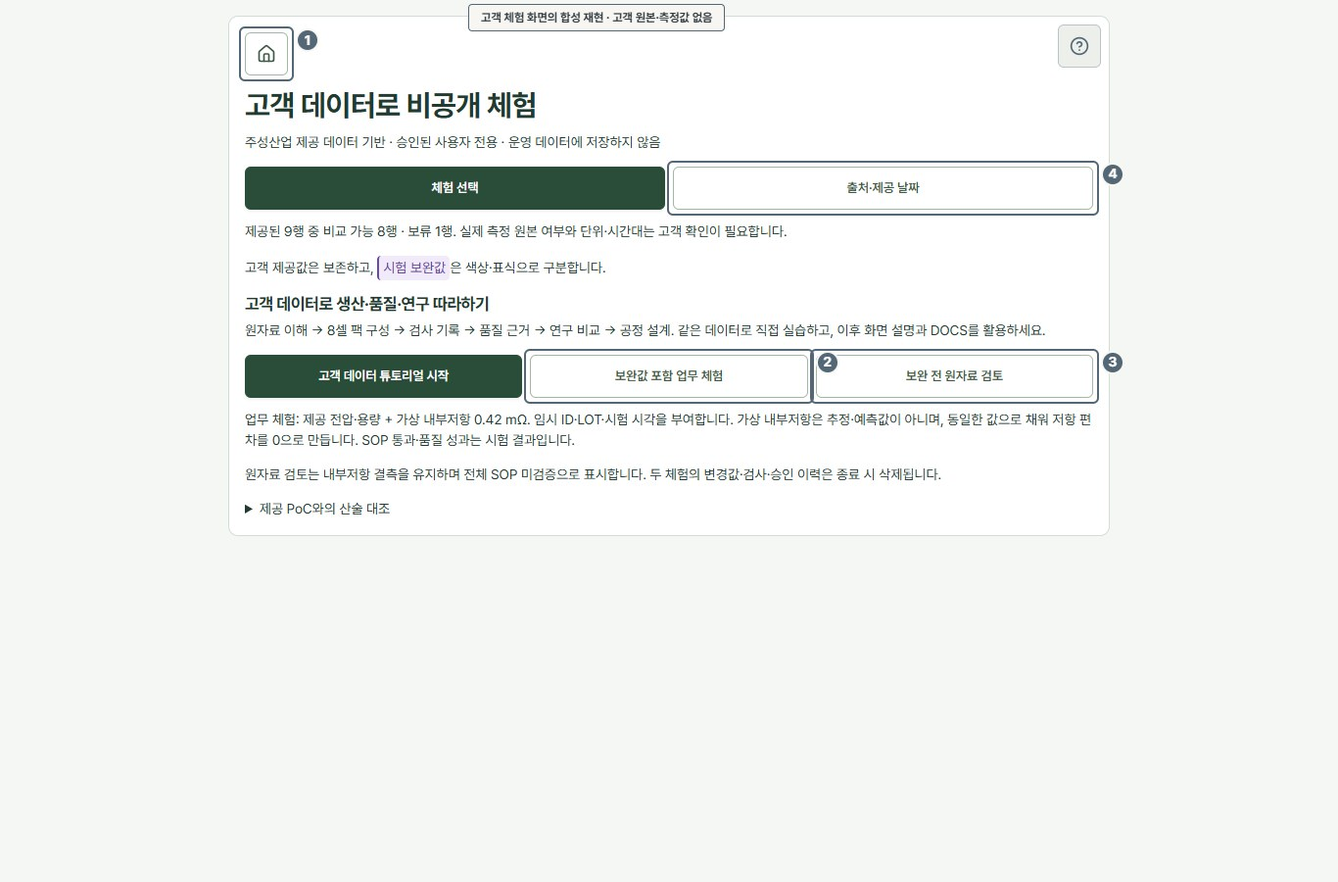
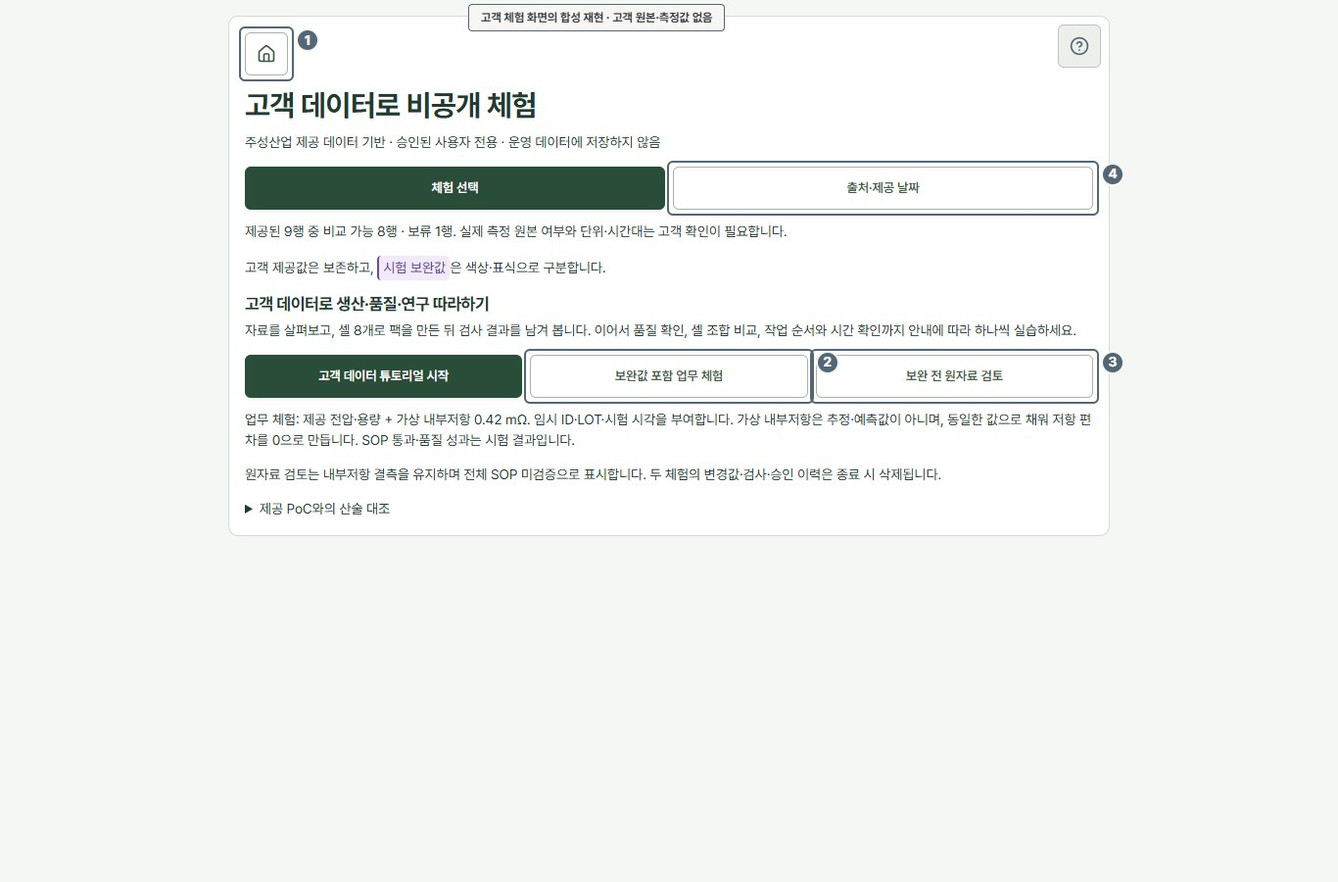
Simplify tutorial guidance and document its start and exit flow

Changed region(s): [[0.1845, 0.3422, 0.7994, 0.4044]]

diff --git a/src/manual/content.ts b/src/manual/content.ts
@@ -14,6 +14,18 @@ export const scenarios:ManualScenario[]=[
  {id:'twin',title:'공정 설계와 효율 시뮬레이션',role:'공정 설계·연구 담당자',start:'장비와 작업 순서·확보 데이터를 설계하고 작업 효율을 비교합니다.',steps:[{title:'장비와 작업 순서',body:'장비를 추가하거나 선택해 이름·운영 단계를 편집합니다. 작업 순서에서 위·아래로 조정한 뒤 장비 편집으로 돌아옵니다. 삭제는 선택 장비의 이 장비 삭제를 사용합니다.',target:'.designer-equipment-tabs, .designer-route'},{title:'데이터 확보 계획',body:'장비의 확보 데이터에서 수집 항목을 선택합니다. 왼쪽 데이터 확보 현황에서 계획된 항목과 부족 항목을 함께 확인합니다.',target:'.designer-coverage, .designer-data'},{title:'효율 추정',body:'작업 제목 줄의 시뮬레이션 · 작업 효율을 선택해 목표 수량, 처리시간, 작업자 시간, 동시 처리 수, 병렬 장비 수를 입력합니다.',target:'.designer-inputs, .designer-metrics'},{title:'대안 비교',body:'현재 안을 비교 기준으로 고정한 뒤 조건을 변경해 전체 완료시간을 비교합니다.',target:'.designer-timeline, .designer-metrics'},{title:'저장과 승인',body:'저장·승인에서 개인 설계를 저장하거나 JSON으로 보관합니다. 제목 줄의 공정 승인함으로 제출 상태를 확인합니다. 승인 요청 후 독립 승인자가 검토하면 신규 팩의 생산·품질 기준에 반영됩니다.',target:'.designer-inspector:has(form)',priority:1}],criteria:'입력 조건 기반 추정입니다. 장비별 인력이 충분하다고 가정하며 고장·재검사·매칭 탈락은 계산하지 않습니다. 확보 계획은 실제 데이터나 수명·안전성 검증 결과가 아닙니다.',exception:'운영 반영은 기존 6단계 순서가 모두 포함되어야 합니다. 시간·데이터 근거를 검토하고 변경한 설계는 재승인받습니다.',done:'승인한 공정 버전을 생산·품질에서 확인합니다. 기존 팩은 생성 당시 버전을 유지합니다.'},
  {id:'research',title:'현장 조합 연구와 데이터 준비',role:'분석·검증 담당자',start:'현장 판단 학습·8셀 조합과 수명·안전성 연구 준비 중 목적을 정합니다.',steps:[{title:'목적에 맞는 도구 선택',body:'현장 판단 학습·8셀 조합에서는 고객 측정·판정 자료로 조합을 비교합니다. 수명·안전성 연구 준비에서는 문헌·데이터셋·스키마를 등록하고 고객 CSV의 추가 확보 항목을 확인합니다.',target:'.research-lab > .task-group-tabs, .research-lab > .visible-task-tabs'},{title:'출처·조건 확인',body:'왼쪽은 분석·의사결정 근거, 오른쪽은 자료·조건 설정입니다. 자료가 없으면 분석 안내를 보여줍니다. 자료를 선택한 뒤 분포·결측을 보고 셀을 눌러 출처와 판단 근거를 확인하세요. 좁은 화면은 분석 근거와 입력·선택 상세로 전환합니다.',target:'.field-study-analysis, .field-study-controls'},{title:'실행 결과 해석·보관',body:'비교 조건에서 연결된 팩 검사와 부족 항목을 확인하고 실행합니다. 검증 결과에서 후보 편차·구성 8셀을 보고, 전체 알고리즘 비교를 펼쳐 방법별 결과를 비교하세요. 보고서를 내려받거나 최근 실험에서 다시 열 수 있습니다.',target:'.research-results, .research-body, .data-validation, .pretrained-explorer'},{title:'수명·안전성 정보 구분',body:'UConn은 셀의 현재 용량, Severson은 수명 종료까지의 총 사이클 수를 다룬 수명 연구입니다. 앱의 공개 모델·열화 이력은 참고용입니다. 조합한 팩의 수명·안전성 검증 결과가 아닙니다.',target:'.pretrained-explorer, .severson-explorer'}],criteria:'현재는 고정 알고리즘 비교이며 학습 모델은 미구현입니다. 팩 검사 결과를 셀 판정으로 간주하지 않습니다. 스키마 충족은 예측 성능 인증이 아니며 연구 결과는 운영에 자동 반영되지 않습니다.',exception:'자료나 조건이 부족하면 미검증으로 남깁니다. 외부 링크가 열리지 않으면 화면의 보관된 근거 요약을 확인합니다.',done:'재현 가능한 비교 근거와 현장 적용 전 추가 검증 항목을 확보합니다.'},
  {id:'members',title:'가입 승인·공정 배정·승인권',role:'시스템 관리자',start:'직원의 신원과 수행할 업무를 확인합니다.',steps:[{title:'가입 상태 확인',body:'가입 신청자의 계정을 확인해 승인·반려합니다. 조회자와 업무 구성원의 역할을 구분합니다.',target:'.table-wrap'},{title:'담당 공정 배정',body:'셀 등록·매칭·케이싱, 모듈 검사·기존 에이징, 최종검사 중 실제 담당 공정을 지정합니다.',target:'.member-permission-fields fieldset, .member-permissions summary'},{title:'최종 승인권 별도 할당',body:'품질 승인 업무를 맡은 사람에게 별도로 승인권을 부여합니다. 관리자라는 이유로 최종 품질 승인을 수행하지 않습니다.',target:'.member-permission-fields > button, .member-permissions summary'}],criteria:'가입 승인과 업무 권한 설정을 각각 확인합니다. 독립 승인 원칙은 권한 할당 후에도 적용됩니다.',exception:'공개 체험에서는 실제 사용자 권한을 바꾸지 않습니다. 이동·퇴사 시 담당 공정과 이용 상태를 점검합니다.',done:'직원이 필요한 업무만 수행할 수 있도록 역할·공정·승인권이 설정됩니다.'},
- {id:'sample',title:'샘플·고객 제공 데이터 체험',role:'체험 사용자·승인된 고객 자료 사용자',start:'공개 가상 체험과 로그인 후 고객 데이터 체험을 구분합니다. 공개 체험은 생산 작업에서 시작하며, 파일 등록 또는 예시 셀 선택 후 검사·품질 승인까지 연습합니다.',steps:[{title:'전체 컬럼과 값 조회',body:'로그인 후 고객 데이터 체험에 들어가 샘플 데이터의 전체 항목을 엽니다. 원자료를 선택하면 원래 컬럼명과 모든 값을 조회할 수 있습니다. 충방전 기록과 PoC 2~4번째 탭을 제공하며 첫 품질 기준 설명 탭은 제외합니다. 가로 스크롤과 이전·다음 자료로 이동합니다.',target:'.source-tables',priority:10},{title:'원본과 보완값 구분',body:'공개 체험의 셀은 기능 시연용 가상값입니다. 로그인 후 고객 데이터 체험에서는 원자료와 시험 보완값 표시를 비교합니다. 보완 내부저항은 실측이 아닙니다.',target:'.sample-value-grid, .sample-data-body, .private-demo-entry'},{title:'출처·날짜 확인',body:'파일 출처와 메타정보 날짜를 확인합니다. 파일 생성·수정일을 실제 제공일로 단정하지 않습니다.',target:'.sample-main-tabs > button:last-child, .sample-field-tabs > button:last-child, .private-demo-entry'},{title:'업무로 돌아가기',body:'샘플 조회의 업무로 돌아가기는 체험 작업으로 복귀합니다. 체험 종료 후 선택 화면의 제목 위 홈 아이콘을 누르면 운영 화면으로 돌아갑니다.',target:'.sample-data-view .console-task-heading > button, .private-demo-home'}],criteria:'원자료 모드는 결측을 유지합니다. 보완값을 사용한 업무 체험 결과를 원본 SOP 전체 통과로 표현하지 않습니다.',exception:'고객 자료 접근 권한이 없으면 관리자에게 문의합니다. 실제 원본·비밀번호를 공개 저장소나 공개 체험에 넣지 않습니다.',done:'데이터 출처와 보완 범위를 이해한 상태로 연습하거나 근거를 검토합니다.'}
+ {id:'sample',title:'샘플·고객 제공 데이터 체험',role:'체험 사용자·승인된 고객 자료 사용자',start:'공개 가상 체험과 로그인 후 고객 데이터 체험을 구분합니다. 공개 체험은 생산 작업에서 시작하며, 파일 등록 또는 예시 셀 선택 후 검사·품질 승인까지 연습합니다.',steps:[{title:'전체 컬럼과 값 조회',body:'로그인 후 고객 데이터 체험에 들어가 샘플 데이터의 전체 항목을 엽니다. 원자료를 선택하면 원래 컬럼명과 모든 값을 조회할 수 있습니다. 충방전 기록과 PoC 2~4번째 탭을 제공하며 첫 품질 기준 설명 탭은 제외합니다. 가로 스크롤과 이전·다음 자료로 이동합니다.',target:'.source-tables',priority:10},{title:'원본과 보완값 구분',body:'공개 체험의 셀은 기능 시연용 가상값입니다. 로그인 후 고객 데이터 체험에서는 원자료와 시험 보완값 표시를 비교합니다. 보완 내부저항은 실측이 아닙니다.',target:'.sample-value-grid, .sample-data-body, .private-demo-entry'},{title:'출처·날짜 확인',body:'파일 출처와 메타정보 날짜를 확인합니다. 파일 생성·수정일을 실제 제공일로 단정하지 않습니다.',target:'.sample-main-tabs > button:last-child, .sample-field-tabs > button:last-child, .private-demo-entry'},{title:'업무로 돌아가기',body:'샘플 조회의 업무로 돌아가기는 체험 작업으로 복귀합니다. 체험 종료 후 선택 화면의 제목 위 홈 아이콘을 누르면 운영 화면으로 돌아갑니다.',target:'.sample-data-view .console-task-heading > button, .private-demo-home'}],criteria:'원자료 모드는 결측을 유지합니다. 보완값을 사용한 업무 체험 결과를 원본 SOP 전체 통과로 표현하지 않습니다.',exception:'고객 자료 접근 권한이 없으면 관리자에게 문의합니다. 실제 원본·비밀번호를 공개 저장소나 공개 체험에 넣지 않습니다.',done:'데이터 출처와 보완 범위를 이해한 상태로 연습하거나 근거를 검토합니다.'},
+ {
+  id:'tutorial',title:'튜토리얼 시작·진행·종료',role:'고객 데이터 접근 권한이 있는 승인된 사용자',
+  start:'태블릿이나 PC에서 승인된 계정으로 로그인합니다. 화면 폭 768px 미만에서는 모바일 미지원 안내가 표시됩니다. 로그인 화면의 가상 데이터 체험과 고객 데이터 튜토리얼은 서로 다른 메뉴입니다.',
+  steps:[
+   {title:'튜토리얼 시작',body:'화면 아래의 ‘고객 데이터 체험’을 누르고 ‘고객 데이터 튜토리얼 시작’을 선택합니다. 고객 데이터 체험 중에는 생산·품질·연구 옆의 ‘튜토리얼 모드’로도 시작할 수 있습니다. 생산의 자료 확인 단계부터 시작합니다.',target:'.tutorial-mode-button, .private-demo-entry'},
+   {title:'안내에 따라 진행',body:'자료 확인 → 팩 만들기 → 검사 기록 → 품질 확인 → 셀 조합 비교 → 작업 순서와 시간 확인 순서입니다. 안내에 적힌 작업을 수행한 뒤 ‘다음 실습’을 누릅니다. ‘실습 화면으로’는 현재 단계의 작업 화면을 다시 엽니다.',target:'.customer-tutorial'},
+   {title:'마무리와 종료 구분',body:'마지막 단계의 ‘실습 마무리’는 결과 안내를 엽니다. ‘자유 체험으로 이어가기’는 안내만 끝내고 팩·검사 기록을 유지합니다. 체험 자체를 끝내려면 화면 아래 ‘체험 종료’를 누릅니다. 실습 중 바꾼 내용과 만든 결과는 삭제되고 고객 데이터 체험 선택 화면으로 돌아갑니다.',target:'.tutorial-actions, .console-footer'}
+  ],
+  criteria:'자료 확인·품질 확인·작업 순서 확인 단계에서는 화면을 살펴본 뒤 확인란에 체크합니다. 팩 만들기는 팩 1개 이상, 검사 기록은 1건 이상 저장, 셀 조합 비교는 비교 실행이 필요합니다. 기존 체험 결과가 있으면 해당 조건이 이미 충족될 수 있습니다. 다음 단계로 갈 수 있다는 표시는 실제 공정 완료나 품질 승인을 뜻하지 않습니다.',
+  exception:'‘튜토리얼 접기’는 안내를 접을 뿐 종료하지 않습니다. 상단 ‘튜토리얼 모드’를 다시 누르거나 마무리 화면의 ‘처음부터 다시 살펴보기’를 선택하면 안내가 첫 단계로 돌아갑니다. 같은 업무 체험의 팩·검사 기록은 유지됩니다. 보완 전 원자료 검토에서 튜토리얼을 시작하면 실습용 보완값이 포함된 새 체험으로 전환됩니다.',
+  done:'실습을 마친 뒤 각 작업의 ‘사용 안내’와 DOCS에서 자세한 절차를 확인할 수 있습니다. ‘체험 종료’ 후 선택 화면의 제목 위 홈 아이콘을 누르면 실제 운영 화면으로 돌아갑니다. 고객 원본과 실제 운영 기록은 실습으로 변경되지 않습니다.'
+ }
 ];
 export function scenarioById(id:string){return scenarios.find(s=>s.id===id)||scenarios[0];}

diff --git a/src/CustomerTutorial.tsx b/src/CustomerTutorial.tsx
@@ -4,12 +4,12 @@ import type {PrivateDataset} from './demoData';
 import './customer-tutorial.css';
 
 const steps: {title:string;task:Tab;action:string;check:string;doc:string;automatic?:'pack'|'inspection'|'research'}[] = [
- {title:'고객 자료 이해',task:'cells',action:'고객 자료 검토에서 원행·보류 사유를 살펴보고, 샘플 데이터에서 제공값과 시험 보완값을 비교하세요.',check:'전압·용량은 고객 제공값입니다. 내부저항 0.42 mΩ, ID·LOT·시험 시각은 보완값이며 원본의 결측을 대체한 실측값이 아닙니다.',doc:'sample'},
- {title:'생산 · 8셀 팩 구성',task:'matching',action:'조합 추천을 실행하고 후보의 8셀과 편차를 검토하세요. 조합 검토 사유와 팩 일련번호를 입력해 팩 1개를 구성하세요.',check:'전압차 10 mV·용량차 500 mAh 조건 충족과 검사 합격은 별개입니다. 후보가 없으면 셀 재고의 보류 상태와 추천 조건을 확인하세요.',doc:'matching',automatic:'pack'},
- {title:'생산 · 검사 기록',task:'packs',action:'구성한 팩의 검사 기록에서 모듈 검사 → 케이싱 → 최종검사 순으로 시험 결과와 사유를 기록하세요. 불합격이면 조치 후 재검사 이력을 남겨보세요.',check:'최소 1건의 시험 검사 기록이 있으면 다음 실습으로 이동할 수 있습니다. 이는 전체 공정 완료나 품질 승인을 뜻하지 않습니다.',doc:'inspection',automatic:'inspection'},
- {title:'품질 · 근거 추적',task:'quality',action:'품질 리포트에서 시험 자료 범위와 검사 연결을 확인하세요. 품질·공정 승인함에서는 승인에 필요한 검사와 독립 검토 조건을 살펴보세요.',check:'초도·최신 결과와 검사 건수·팩 수를 구분하세요. 실습 중 만든 결과를 고객의 실제 불량률이나 개선 성과로 해석하지 않습니다.',doc:'quality'},
- {title:'연구 · 같은 데이터로 비교',task:'research',action:'현재 측정·판정 자료 가져오기를 누르세요. 시험 보완값 포함 여부를 확인한 뒤 비교 조건에서 실행하고, 검증 결과의 8셀 후보와 편차를 살펴보세요.',check:'생산에서 만든 팩과 검사도 함께 가져옵니다. 고정 알고리즘 비교이며 모델 학습·수명·안전성 예측이 아닙니다. 8개 이상 비교 가능한 셀이 필요합니다.',doc:'research',automatic:'research'},
- {title:'연구 · 공정과 추가 데이터',task:'twin',action:'공정 설계에서 장비별 확보 데이터와 작업 순서를 살펴보세요. 시뮬레이션에서 목표 수량·작업시간을 바꿔 완료시간과 병목을 비교하세요.',check:'시뮬레이션 시간은 입력 조건에 따른 추정입니다. 데이터·AI 검증의 연구 문헌에서 수명·안전성 연구에 추가로 필요한 측정 항목도 확인하세요.',doc:'twin'},
+ {title:'고객 자료 살펴보기',task:'cells',action:'‘고객 자료 검토’에서 원본 자료와 사용할 수 없는 셀의 이유를 확인하세요. ‘샘플 데이터’를 열어 고객이 제공한 값과 실습용으로 채운 값을 구분해 보세요.',check:'전압과 용량은 고객이 제공한 값입니다. 내부저항 0.42 mΩ와 셀 번호(ID)·묶음 번호(LOT)·시험 시각은 실습용으로 넣었습니다. 원본에 없던 값을 실제로 측정한 것은 아닙니다.',doc:'sample'},
+ {title:'생산 · 셀 8개로 팩 만들기',task:'matching',action:'‘조합 추천’을 누르고, 추천된 셀 8개의 측정값 차이를 살펴보세요. ‘조합 검토 · 확정’에서 선택한 이유와 팩 일련번호를 입력해 팩 1개를 만드세요.',check:'전압 차이 10 mV, 용량 차이 500 mAh 조건을 만족해도 검사에 합격한 것은 아닙니다. 추천 결과가 없으면 ‘셀 재고’에서 사용이 보류된 셀과 그 이유를 확인하고, 추천 조건도 살펴보세요.',doc:'matching',automatic:'pack'},
+ {title:'생산 · 검사 결과 남기기',task:'packs',action:'만든 팩의 ‘상세 조회’를 열어 검사 결과와 이유를 입력하세요. 모듈 검사 → 케이싱 → 최종검사 순서로 진행합니다. 불합격인 경우에는 조치 내용을 적고 다시 검사해 보세요.',check:'검사 결과를 1건 이상 저장하면 다음 실습으로 갈 수 있습니다. 아직 모든 공정을 마쳤거나 품질 승인을 받은 것은 아닙니다.',doc:'inspection',automatic:'inspection'},
+ {title:'품질 · 검사 결과 확인하기',task:'quality',action:'‘품질 리포트’에서 어떤 검사 결과가 집계됐는지 확인하세요. 이어서 ‘품질·공정 승인함’에서 승인에 필요한 검사와 검토 조건을 살펴보세요.',check:'처음 검사한 결과와 가장 최근 결과를 구분해 보세요. 같은 팩을 여러 번 검사할 수 있으므로 검사 건수와 팩 수는 다를 수 있습니다. 직접 제출하거나 공정 확인에 참여한 팩은 다른 승인 담당자가 검토해야 합니다. 실습 결과는 고객의 실제 불량률이나 개선 성과가 아닙니다.',doc:'quality'},
+ {title:'연구 · 셀 조합 비교하기',task:'research',action:'‘현재 측정·판정 자료 가져오기’를 누르세요. ‘2. 비교 조건’에서 실습용 값도 포함할지 확인한 뒤 ‘알고리즘 비교 실행’을 누르세요. 결과에서 추천된 셀 8개와 측정값 차이를 비교해 보세요.',check:'생산 실습에서 만든 팩과 검사 기록도 함께 가져옵니다. 비교에 사용할 수 있는 셀이 8개 이상 있어야 합니다. 정해진 계산 방법을 비교하는 실습이며, AI를 학습시키거나 배터리 수명·안전성을 예측하는 기능은 아닙니다.',doc:'research',automatic:'research'},
+ {title:'연구 · 작업 순서와 시간 살펴보기',task:'twin',action:'‘공정 설계’에서 장비별로 모을 데이터와 작업 순서를 살펴보세요. ‘시뮬레이션’에서 목표 수량과 작업시간을 바꿔 보세요. 전체 소요 시간과 작업이 오래 걸리는 곳이 어떻게 달라지는지 확인하세요.',check:'표시된 시간은 입력한 조건으로 계산한 예상 시간입니다. 실제 장비에서 측정한 시간은 아닙니다. ‘데이터·AI 검증’의 연구 문헌에서는 수명·안전성 연구를 위해 어떤 데이터를 더 측정해야 하는지도 살펴볼 수 있습니다.',doc:'twin'},
 ];
 
 export default function CustomerTutorial({dataset,packCount,inspectionCount,researchDone,onOpen,onFinish}:{
@@ -21,10 +21,10 @@ export default function CustomerTutorial({dataset,packCount,inspectionCount,rese
  function next(){if(!ready)return;setIndex(index+1);if(index+1<steps.length)onOpen(steps[index+1].task);}
  return <section className="customer-tutorial" aria-label="고객 데이터 튜토리얼">
   <div className="tutorial-heading"><strong>{finished?'튜토리얼 마무리':`${index+1} / ${steps.length} · ${step.title}`}</strong><button className="text-button" aria-expanded={!collapsed} onClick={()=>setCollapsed(!collapsed)}>{collapsed?'튜토리얼 펼치기':'튜토리얼 접기'}</button></div>
-  {!collapsed&&(finished?<div><h2>고객 자료에서 생산·품질·연구까지</h2><p>자료 {dataset.intake.rows.length}행으로 시작해 현재 팩 {packCount}개 · 검사 {inspectionCount}건 · 연구 비교 {researchDone?'실행 완료':'미실행'}를 확인했습니다. 체험 결과는 운영에 반영되지 않으며 종료 시 삭제됩니다.</p><p>이제 각 작업의 ‘사용 안내’로 화면 설명을 확인하고, DOCS에서 절차와 예외를 찾아보세요.</p><div className="tutorial-actions"><a href="#docs/field">생산 DOCS</a><a href="#docs/quality">품질 DOCS</a><a href="#docs/research">연구 DOCS</a><button className="secondary" onClick={()=>{setIndex(0);onOpen('cells');}}>처음부터 다시 살펴보기</button><button className="primary" onClick={onFinish}>자유 체험으로 이어가기</button></div></div>:<div>
-   <p>{step.action}</p><details><summary>판단할 때 확인할 점</summary><p>{step.check}</p><p>시작 자료 {dataset.intake.rows.length}행 · 비교 가능 {dataset.verification.valid}행 · 보류 {dataset.verification.held}행. 모든 실습 변경은 현재 체험에서만 유지됩니다.</p></details>
-   {step.automatic?<p role="status">{ready?'실행 확인 완료':step.automatic==='pack'?'팩 구성 대기':step.automatic==='inspection'?'시험 검사 기록 대기':'연구 비교 실행 대기'}</p>:<label><input type="checkbox" checked={confirmed.includes(index)} onChange={e=>setConfirmed(e.target.checked?[...confirmed,index]:confirmed.filter(i=>i!==index))}/> 직접 살펴보고 판단 근거를 확인했습니다</label>}
-   <div className="tutorial-actions"><button className="secondary" disabled={!index} onClick={()=>{setIndex(index-1);onOpen(steps[index-1].task);}}>이전 실습</button><button className="secondary" onClick={()=>onOpen(step.task)}>실습 화면으로</button><button className="primary" disabled={!ready} onClick={next}>{index===steps.length-1?'실습 마무리':'다음 실습'}</button><a href={`#docs/${step.doc}`}>관련 DOCS</a></div>
+  {!collapsed&&(finished?<div><h2>생산·품질·연구 실습을 마쳤습니다</h2><p>자료 {dataset.intake.rows.length}행으로 실습했습니다. 현재 팩 {packCount}개 · 검사 {inspectionCount}건 · 연구 비교 {researchDone?'실행 완료':'미실행'} 상태입니다. 실습 결과는 실제 운영에 저장되지 않으며 체험을 종료하면 삭제됩니다.</p><p>화면의 버튼이나 입력 방법이 궁금하면 ‘사용 안내’를 여세요. 자세한 순서와 문제 해결 방법은 DOCS(전체 매뉴얼)에서 볼 수 있습니다.</p><div className="tutorial-actions"><a href="#docs/field">생산 DOCS</a><a href="#docs/quality">품질 DOCS</a><a href="#docs/research">연구 DOCS</a><button className="secondary" onClick={()=>{setIndex(0);onOpen('cells');}}>처음부터 다시 살펴보기</button><button className="primary" onClick={onFinish}>자유 체험으로 이어가기</button></div></div>:<div>
+   <p>{step.action}</p><details><summary>이 단계에서 알아둘 점</summary><p>{step.check}</p><p>전체 자료 {dataset.intake.rows.length}행 중 비교에 쓸 수 있는 자료는 {dataset.verification.valid}행이고, 확인이 더 필요한 자료는 {dataset.verification.held}행입니다. 실습 중 바꾼 내용은 실제 운영에 저장되지 않습니다.</p></details>
+   {step.automatic?<p role="status">{ready?'완료했습니다. ‘다음 실습’을 눌러 주세요.':step.automatic==='pack'?'팩 1개를 만들면 다음 실습으로 갈 수 있습니다.':step.automatic==='inspection'?'검사 결과를 1건 저장하면 다음 실습으로 갈 수 있습니다.':'알고리즘 비교를 실행하면 다음 실습으로 갈 수 있습니다.'}</p>:<label><input type="checkbox" checked={confirmed.includes(index)} onChange={e=>setConfirmed(e.target.checked?[...confirmed,index]:confirmed.filter(i=>i!==index))}/> 안내에 따라 화면을 살펴봤습니다</label>}
+   <div className="tutorial-actions"><button className="secondary" disabled={!index} onClick={()=>{setIndex(index-1);onOpen(steps[index-1].task);}}>이전 실습</button><button className="secondary" onClick={()=>onOpen(step.task)}>실습 화면으로</button><button className="primary" disabled={!ready} onClick={next}>{index===steps.length-1?'실습 마무리':'다음 실습'}</button><a href={`#docs/${step.doc}`}>자세한 설명 (DOCS)</a><a href="#docs/tutorial">튜토리얼 사용법</a></div>
   </div>)}
  </section>;
 }

diff --git a/tests/manual.spec.ts b/tests/manual.spec.ts
@@ -5,9 +5,9 @@ test('requested help preserves login input and DOCS shares scenarios, search and
  await page.goto('/batt/');await expect(page.getByRole('dialog')).toHaveCount(0);
  await page.getByLabel('이메일',{exact:true}).fill('draft@example.com');await page.getByRole('button',{name:'사용 안내',exact:true}).click();
  await expect(page.getByRole('dialog')).toContainText('화면 설명');await expect(page.locator('.manual-spotlight')).toBeVisible();
- await page.getByRole('button',{name:'DOCS 전체 매뉴얼'}).click();await expect(page.getByRole('navigation',{name:'업무 시나리오'}).getByRole('button')).toHaveCount(13);
+ await page.getByRole('button',{name:'DOCS 전체 매뉴얼'}).click();await expect(page.getByRole('navigation',{name:'업무 시나리오'}).getByRole('button')).toHaveCount(14);
  await page.getByRole('searchbox').fill('권한');await expect(page.getByRole('navigation',{name:'업무 시나리오'}).getByRole('button').first()).toBeVisible();
- await page.emulateMedia({media:'print'});await expect(page.locator('.manual-print .manual-article')).toHaveCount(13);await expect(page.locator('.manual-print')).toBeVisible();await expect(page.locator('#root')).toBeHidden();await page.emulateMedia({media:'screen'});
+ await page.emulateMedia({media:'print'});await expect(page.locator('.manual-print .manual-article')).toHaveCount(14);await expect(page.locator('.manual-print')).toBeVisible();await expect(page.locator('#root')).toBeHidden();await page.emulateMedia({media:'screen'});
  await page.getByRole('button',{name:'DOCS 닫기'}).click();await expect(page.getByLabel('이메일',{exact:true})).toHaveValue('draft@example.com');await expect(page.getByRole('button',{name:'사용 안내',exact:true})).toBeFocused();
 });
 test('help and docs fit small and large displays and return to the same work',async({page})=>{
@@ -37,7 +37,7 @@ test('help stays reachable when the twin header changes with viewport size',asyn
 });
 
 test('every scenario has readable numbered screenshots, outcomes and troubleshooting',async({page})=>{
- await page.goto('/batt/#docs/inspection');const nav=page.getByRole('navigation',{name:'업무 시나리오'});await expect(nav.getByRole('button')).toHaveCount(13);const names=await nav.getByRole('button').allTextContents();expect(names).toHaveLength(13);
+ await page.goto('/batt/#docs/inspection');const nav=page.getByRole('navigation',{name:'업무 시나리오'});await expect(nav.getByRole('button')).toHaveCount(14);const names=await nav.getByRole('button').allTextContents();expect(names).toHaveLength(14);
  for(const name of names){await nav.getByRole('button',{name,exact:true}).click();const article=page.locator('.manual-reading article');await expect(article.locator('h2')).toHaveText(name);expect(await article.locator('.manual-figure').count()).toBeGreaterThanOrEqual(2);await expect(article.locator('.manual-troubleshooting')).toBeVisible();await expect(article).toContainText('처리 후 확인');
   const images=article.locator('img');await images.evaluateAll(async nodes=>{await Promise.all(nodes.map(async node=>{const img=node as HTMLImageElement;img.loading='eager';await img.decode();if(img.naturalWidth!==Number(img.getAttribute('width'))||img.naturalHeight!==Number(img.getAttribute('height'))||img.naturalWidth<1000)throw Error('Broken manual capture');}));});
   expect(await article.locator('.manual-callouts li').count()).toBeGreaterThanOrEqual(2);

diff --git a/src/manual/guidance.ts b/src/manual/guidance.ts
@@ -1,4 +1,11 @@
 export const guidance:Record<string,{entry:string;problems:[string,string][]}>={
+ tutorial:{entry:'로그인 → 화면 아래 고객 데이터 체험 → 고객 데이터 튜토리얼 시작 / 고객 데이터 체험 중 상단 튜토리얼 모드',problems:[
+  ['튜토리얼 모드 버튼이 보이지 않음','일반 운영 화면이나 로그인 화면의 가상 데이터 체험에는 표시되지 않습니다. 승인된 계정으로 로그인한 뒤 ‘고객 데이터 체험’에 들어가세요. 자료를 열 수 없으면 관리자에게 접근 권한을 확인하세요.'],
+  ['다음 실습을 누를 수 없음','현재 안내 아래의 확인란 또는 완료 조건을 확인하세요. 팩 1개 만들기, 검사 결과 1건 저장, 알고리즘 비교 실행은 해당 작업을 마쳐야 다음 단계로 이동할 수 있습니다.'],
+  ['튜토리얼 모드 버튼이 비활성화됨','팩 검사 입력창이나 샘플 자료를 보고 있는지 확인하세요. 검사를 저장하거나 입력창을 닫고, 샘플 자료에서는 ‘업무로 돌아가기’를 누른 뒤 다시 선택하세요.'],
+  ['안내만 닫을지 체험을 끝낼지 모르겠음','잠깐 화면을 넓게 보려면 ‘튜토리얼 접기’를 누르세요. 마지막 단계에서 ‘자유 체험으로 이어가기’를 누르면 결과를 유지한 채 안내를 끝냅니다. ‘체험 종료’는 실습 결과를 삭제하고 체험 선택 화면으로 돌아갑니다.'],
+  ['새로 시작했더니 이전 실습 결과가 없음','체험 결과는 실제 운영에 저장되지 않습니다. 체험 종료·새로고침 후에는 이전 결과가 남지 않습니다. 안내만 처음부터 다시 보는 경우에는 같은 체험의 결과를 유지합니다.']
+ ]},
  access:{entry:'로그인 화면 · 사용 권한 신청',problems:[['가입 접수 후 로그인할 수 없음','이메일 인증 요청 여부와 관리자 승인 상태를 확인합니다. 가입 승인은 공정 배정이나 최종 승인권과 별개입니다.'],['로그인 실패','본인 이메일과 비밀번호를 확인합니다. 계정 승인·이용 중지 문제는 관리자에게 문의하고 다른 사람의 계정을 사용하지 않습니다.']]},
  cells:{entry:'생산 · 셀 검사·재고 · 파일 가져오기 / 고객 자료 검토 / 셀 재고',problems:[['표준 등록에서 오류 또는 결측 발견','오류 행·단위·중복 ID를 확인합니다. 원본이 결측이면 값을 만들어 넣지 말고 고객 자료 검토에서 결측을 유지해 검토합니다.'],['저장이 끝났는데 셀이 보이지 않음','셀 재고의 검색어·LOT·상태 필터를 확인합니다. 재등록 전에 같은 셀 ID의 존재 여부를 확인해 중복을 피합니다.']]},
  matching:{entry:'생산 · 8셀 조합 · 추천 조건 · 8셀 추천 조합',problems:[['추천이 없거나 조합 추천이 비활성','사용 가능한 셀 수가 8개 이상인지, LOT와 결측·보류 상태가 맞는지 확인합니다. 추천 없음은 전역 조합 불가능의 증명이 아닙니다.'],['확정 중 오류','중복 팩 번호, 변경된 셀 상태와 저장 오류를 확인합니다. 이미 구성됐는지 팩 목록을 조회한 뒤 재시도합니다.']]},

diff --git a/src/PrivateDemo.tsx b/src/PrivateDemo.tsx
@@ -23,7 +23,7 @@ export default function PrivateDemo({session,onExit}:{session:Session;onExit:()=
  {error?<p role="alert">{error}</p>:!dataset?<p role="status">비공개 자료 접근 권한을 확인하고 있습니다.</p>:tab==='start'?<>
  <p>제공된 {dataset.intake.rows.length}행 중 비교 가능 {dataset.verification.valid}행 · 보류 {dataset.verification.held}행. 실제 측정 원본 여부와 단위·시간대는 고객 확인이 필요합니다.</p>
  <p><span className="data-origin-provided">고객 제공값</span>은 보존하고, <span className="data-value data-origin-supplemented">시험 보완값</span>은 색상·표식으로 구분합니다.</p>
- <h2>고객 데이터로 생산·품질·연구 따라하기</h2><p>원자료 이해 → 8셀 팩 구성 → 검사 기록 → 품질 근거 → 연구 비교 → 공정 설계. 같은 데이터로 직접 실습하고, 이후 화면 설명과 DOCS를 활용하세요.</p><nav><button className="primary" onClick={()=>setMode('tutorial')}>고객 데이터 튜토리얼 시작</button><button className="secondary" onClick={()=>setMode('workflow')}>보완값 포함 업무 체험</button><button className="secondary" onClick={()=>setMode('raw')}>보완 전 원자료 검토</button></nav>
+ <h2>고객 데이터로 생산·품질·연구 따라하기</h2><p>자료를 살펴보고, 셀 8개로 팩을 만든 뒤 검사 결과를 남겨 봅니다. 이어서 품질 확인, 셀 조합 비교, 작업 순서와 시간 확인까지 안내에 따라 하나씩 실습하세요.</p><nav><button className="primary" onClick={()=>setMode('tutorial')}>고객 데이터 튜토리얼 시작</button><button className="secondary" onClick={()=>setMode('workflow')}>보완값 포함 업무 체험</button><button className="secondary" onClick={()=>setMode('raw')}>보완 전 원자료 검토</button></nav>
  <p>업무 체험: 제공 전압·용량 + 가상 내부저항 0.42 mΩ. 임시 ID·LOT·시험 시각을 부여합니다. 가상 내부저항은 추정·예측값이 아니며, 동일한 값으로 채워 저항 편차를 0으로 만듭니다. SOP 통과·품질 성과는 시험 결과입니다.</p>
  <p>원자료 검토는 내부저항 결측을 유지하며 전체 SOP 미검증으로 표시합니다. 두 체험의 변경값·검사·승인 이력은 종료 시 삭제됩니다.</p>
  <details><summary>제공 PoC와의 산술 대조</summary><p>평균 용량편차 {number(dataset.verification.sequence_mean,2)} → {number(dataset.verification.poc_mean,2)} mAh · {number(dataset.verification.improvement_percent,2)}% 감소. 기록된 조합 {dataset.verification.poc_two_criteria_pass}/15개가 전압·용량 두 조건을 충족합니다. 내부저항을 포함한 전체 SOP 통과는 아닙니다. K-means 실행 재현이나 현장 불량률 개선 검증도 아닙니다.</p></details>

diff --git a/tests/customer-tutorial.spec.ts b/tests/customer-tutorial.spec.ts
@@ -18,6 +18,11 @@ test('customer tutorial connects production quality and research without persist
  const guide=page.getByRole('region',{name:'고객 데이터 튜토리얼'});
  const next=guide.getByRole('button',{name:'다음 실습',exact:true});
  await expect(next).toBeDisabled();
+ await guide.getByRole('link',{name:'튜토리얼 사용법',exact:true}).click();
+ await expect(page.locator('.manual-reading h2')).toHaveText('튜토리얼 시작·진행·종료');
+ await expect(page.locator('.manual-reading')).toContainText('체험 종료');
+ await page.getByRole('button',{name:'DOCS 닫기'}).click();
+ await expect(guide).toContainText('1 / 6');await expect(next).toBeDisabled();
  for(const [width,height] of [[768,1024],[1024,768],[800,1280],[1280,800],[834,1194],[1194,834],[900,768],[1366,768],[1440,768]]){
   await page.setViewportSize({width,height});
   await expect(guide).toBeVisible();
@@ -54,6 +59,12 @@ test('customer tutorial connects production quality and research without persist
  expect(writes).toEqual([]);
  expect(await page.evaluate(()=>Object.values(localStorage).some(v=>v.includes('PRIVATE-0')))).toBe(false);
  await page.screenshot({path:'test-results/customer-tutorial-complete.png'});
+ await guide.getByRole('button',{name:'자유 체험으로 이어가기',exact:true}).click();
+ await expect(guide).toHaveCount(0);
+ await page.getByRole('button',{name:'튜토리얼 모드',exact:true}).click();
+ await expect(guide).toContainText('1 / 6');await expect(next).toBeDisabled();
+ await guide.getByRole('checkbox').check();await next.click();
+ await expect(next).toBeEnabled();
  await page.getByRole('button',{name:'체험 종료',exact:true}).click();await page.getByRole('button',{name:'고객 데이터 튜토리얼 시작'}).click();
  await expect(guide).toContainText('1 / 6');await expect(next).toBeDisabled();
 });

diff --git a/README.md b/README.md
@@ -2,6 +2,8 @@
 
 ## 고객 데이터 튜토리얼 (2026-10-20)
 
+DOCS의 **튜토리얼 시작·진행·종료**에서 진입 위치, 다음 단계로 넘어가는 조건, 안내 접기와 체험 종료의 차이를 확인할 수 있습니다. 튜토리얼 안내의 **튜토리얼 사용법** 링크로도 열 수 있습니다. 마지막의 **자유 체험으로 이어가기**는 실습 결과를 유지하고 안내만 끝내며, 화면 아래 **체험 종료**는 실습 결과를 삭제하고 체험 선택 화면으로 돌아갑니다.
+
 승인된 고객 데이터 체험에서 상단 생산·품질·연구 옆의 **튜토리얼 모드**를 누르면 생산의 자료 확인부터 시작합니다. 체험 선택 화면에서도 바로 시작할 수 있습니다.
 
 1. 생산: 원자료·보류 사유·시험 보완값 확인
